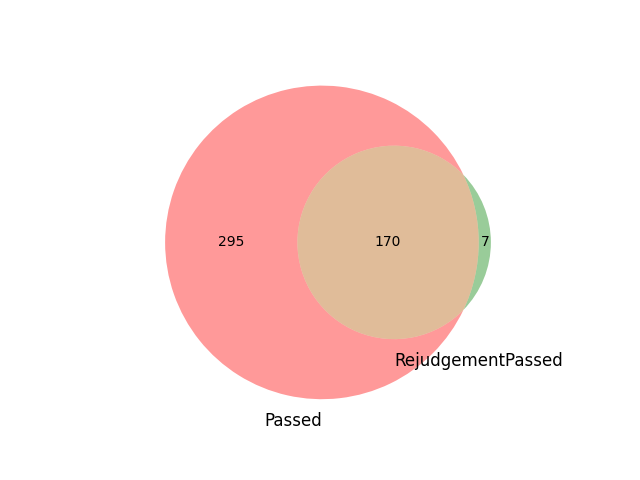
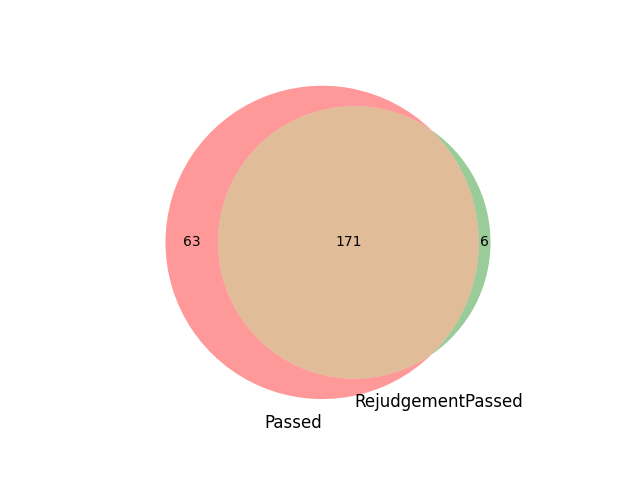
Deduplicate multiple rejudgements

diff --git a/src/adk/test_analysis.py b/src/adk/test_analysis.py
@@ -19,7 +19,7 @@ success_column = "Passed"
 failure_dfs = {}
 success_dfs = {}
 combined_dfs = {}
-combined_dfs_raw = {}
+combined_dfs_raw = {} # TODO rename this to something more appropriate
 success_rates_by_permutations = {}
 success_rates_by_permutation_model_sizes = {}
 large_model_improvement_by_permutations = {}
@@ -32,6 +32,7 @@ combined_agree_rejudgement_dfs_raw = {}
 rejudgement_passed_dfs = {}
 rejudgement_failed_dfs = {}
 combined_passfail_rejudgement_dfs_raw = {}
+combined_dfs_by_run = {}
 
 
 def invert_mapping(dictionary: dict) -> dict:
@@ -136,7 +137,7 @@ commits_to_filter = {
 }
 
 def extract_judgement_results_for_folder(output_dir, search_character) -> pd.DataFrame:
-    print(output_dir)
+    #print(output_dir)
     extracted_records = []
     output = subprocess.run(
         ["rg", search_character, "--hidden"],
@@ -481,6 +482,25 @@ def main(argv):
             analyse_cohort(output_dir)
 
 
+def deduplicate_rejudgements(df: pd.DataFrame) -> pd.DataFrame:
+    if "RejudgementPassed" in df:
+        df["RejudgementFailedCount"] = df[df["RejudgementPassed"] == False].groupby(["commit", "exec_time", "permutation"]).agg({
+            "RejudgementPassed": 'count'
+        })
+        df["RejudgementPassedCount"] = df[df["RejudgementPassed"] == True].groupby(["commit", "exec_time", "permutation"]).agg({
+            "RejudgementPassed": 'count'
+        })
+    if "RejudgementAgree" in df:
+        df["RejudgementDisagreeCount"] = df[df["RejudgementAgree"] == False].groupby(["commit", "exec_time", "permutation"]).agg({
+            "RejudgementAgree": 'count'
+        })
+        df["RejudgementAgreeCount"] = df[df["RejudgementAgree"] == True].groupby(["commit", "exec_time", "permutation"]).agg({
+            "RejudgementAgree": 'count'
+        })
+    df = df.drop_duplicates(subset=["rejudgement_time", "rejudgement_reasoning"])
+    return df
+
+
 def analyse_cohort(output_dir: Path):
     test_cohort = str(output_dir.relative_to(".testOutputs"))
     failure_dfs[test_cohort] = load_failure_df(output_dir, test_cohort)
@@ -593,16 +613,18 @@ def analyse_cohort(output_dir: Path):
                 print('RIGHT DUPLCIATES', right)
                 raise e
 
+        combined_dfs_by_run[test_cohort] = deduplicate_rejudgements(combined_dfs_raw[test_cohort].copy())
+
         if len(combined_passfail_rejudgement_dfs_raw[test_cohort]) and len(combined_agree_rejudgement_dfs_raw[test_cohort]):
-            print(combined_dfs_raw[test_cohort].value_counts(["Passed", "RejudgementPassed", "ConsensusPassed"]))
+            print(combined_dfs_by_run[test_cohort].value_counts(["Passed", "RejudgementPassed", "ConsensusPassed"]))
             fig_name = "venn3_true"
             fig = plt.figure(f"{fig_name}_{test_cohort}")
             fig.clear()
             v = venn3(
                 [
-                    set(combined_dfs_raw[test_cohort][combined_dfs_raw[test_cohort]["Passed"] == True].index),
-                    set(combined_dfs_raw[test_cohort][combined_dfs_raw[test_cohort]["RejudgementPassed"] == True].index),
-                    set(combined_dfs_raw[test_cohort][combined_dfs_raw[test_cohort]["ConsensusPassed"] == True].index)
+                    set(combined_dfs_by_run[test_cohort][combined_dfs_by_run[test_cohort]["Passed"] == True].index),
+                    set(combined_dfs_by_run[test_cohort][combined_dfs_by_run[test_cohort]["RejudgementPassed"] == True].index),
+                    set(combined_dfs_by_run[test_cohort][combined_dfs_by_run[test_cohort]["ConsensusPassed"] == True].index)
                 ],
                 ("Passed", "RejudgementPassed", "ConsensusPassed")
             )
@@ -613,9 +635,9 @@ def analyse_cohort(output_dir: Path):
             fig.clear()
             v = venn3(
                 [
-                    set(combined_dfs_raw[test_cohort][combined_dfs_raw[test_cohort]["Passed"] == False].index),
-                    set(combined_dfs_raw[test_cohort][combined_dfs_raw[test_cohort]["RejudgementPassed"] == False].index),
-                    set(combined_dfs_raw[test_cohort][combined_dfs_raw[test_cohort]["ConsensusPassed"] == False].index)
+                    set(combined_dfs_by_run[test_cohort][combined_dfs_by_run[test_cohort]["Passed"] == False].index),
+                    set(combined_dfs_by_run[test_cohort][combined_dfs_by_run[test_cohort]["RejudgementPassed"] == False].index),
+                    set(combined_dfs_by_run[test_cohort][combined_dfs_by_run[test_cohort]["ConsensusPassed"] == False].index)
                 ],
                 ("Passed", "RejudgementPassed", "ConsensusPassed")
             )
@@ -627,8 +649,8 @@ def analyse_cohort(output_dir: Path):
             fig.clear()
             v = venn2(
                 [
-                    set(combined_dfs_raw[test_cohort][combined_dfs_raw[test_cohort]["Passed"] == True].index),
-                    set(combined_dfs_raw[test_cohort][combined_dfs_raw[test_cohort]["RejudgementPassed"] == True].index),
+                    set(combined_dfs_by_run[test_cohort][combined_dfs_by_run[test_cohort]["Passed"] == True].index),
+                    set(combined_dfs_by_run[test_cohort][combined_dfs_by_run[test_cohort]["RejudgementPassed"] == True].index),
                 ],
                 ("Passed", "RejudgementPassed")
             )
@@ -639,13 +661,12 @@ def analyse_cohort(output_dir: Path):
             fig.clear()
             v = venn2(
                 [
-                    set(combined_dfs_raw[test_cohort][combined_dfs_raw[test_cohort]["Passed"] == False].index),
-                    set(combined_dfs_raw[test_cohort][combined_dfs_raw[test_cohort]["RejudgementPassed"] == False].index),
+                    set(combined_dfs_by_run[test_cohort][combined_dfs_by_run[test_cohort]["Passed"] == False].index),
+                    set(combined_dfs_by_run[test_cohort][combined_dfs_by_run[test_cohort]["RejudgementPassed"] == False].index),
                 ],
                 ("Passed", "RejudgementPassed")
             )
             fig.savefig(f"{fig_name}.{test_cohort}.png")
-
 
 
 if __name__ == "__main__":

diff --git a/src/adk/confirmation_analysis.py b/src/adk/confirmation_analysis.py
@@ -23,9 +23,10 @@ async def main():
     hypothesis_name = f"{test_cohort}__stressTestAgent"
     #  test_cohort = "skilled_worker_visa"
     
-    ##git_commit = "e680f99"
-    #git_commit = '21506e4'
-    git_commit = '10c6f19'
+    ###git_commit = "e680f99"                                                                                    
+    ##git_commit = '21506e4'                                                                                     
+    #git_commit = '10c6f19'                                                                                      
+    git_commit = 'd6dfd9f'                                                                                       
     
     test_cases = load_and_parse_test_cases(test_cohort)
     current_datetime = datetime.now().isoformat()
